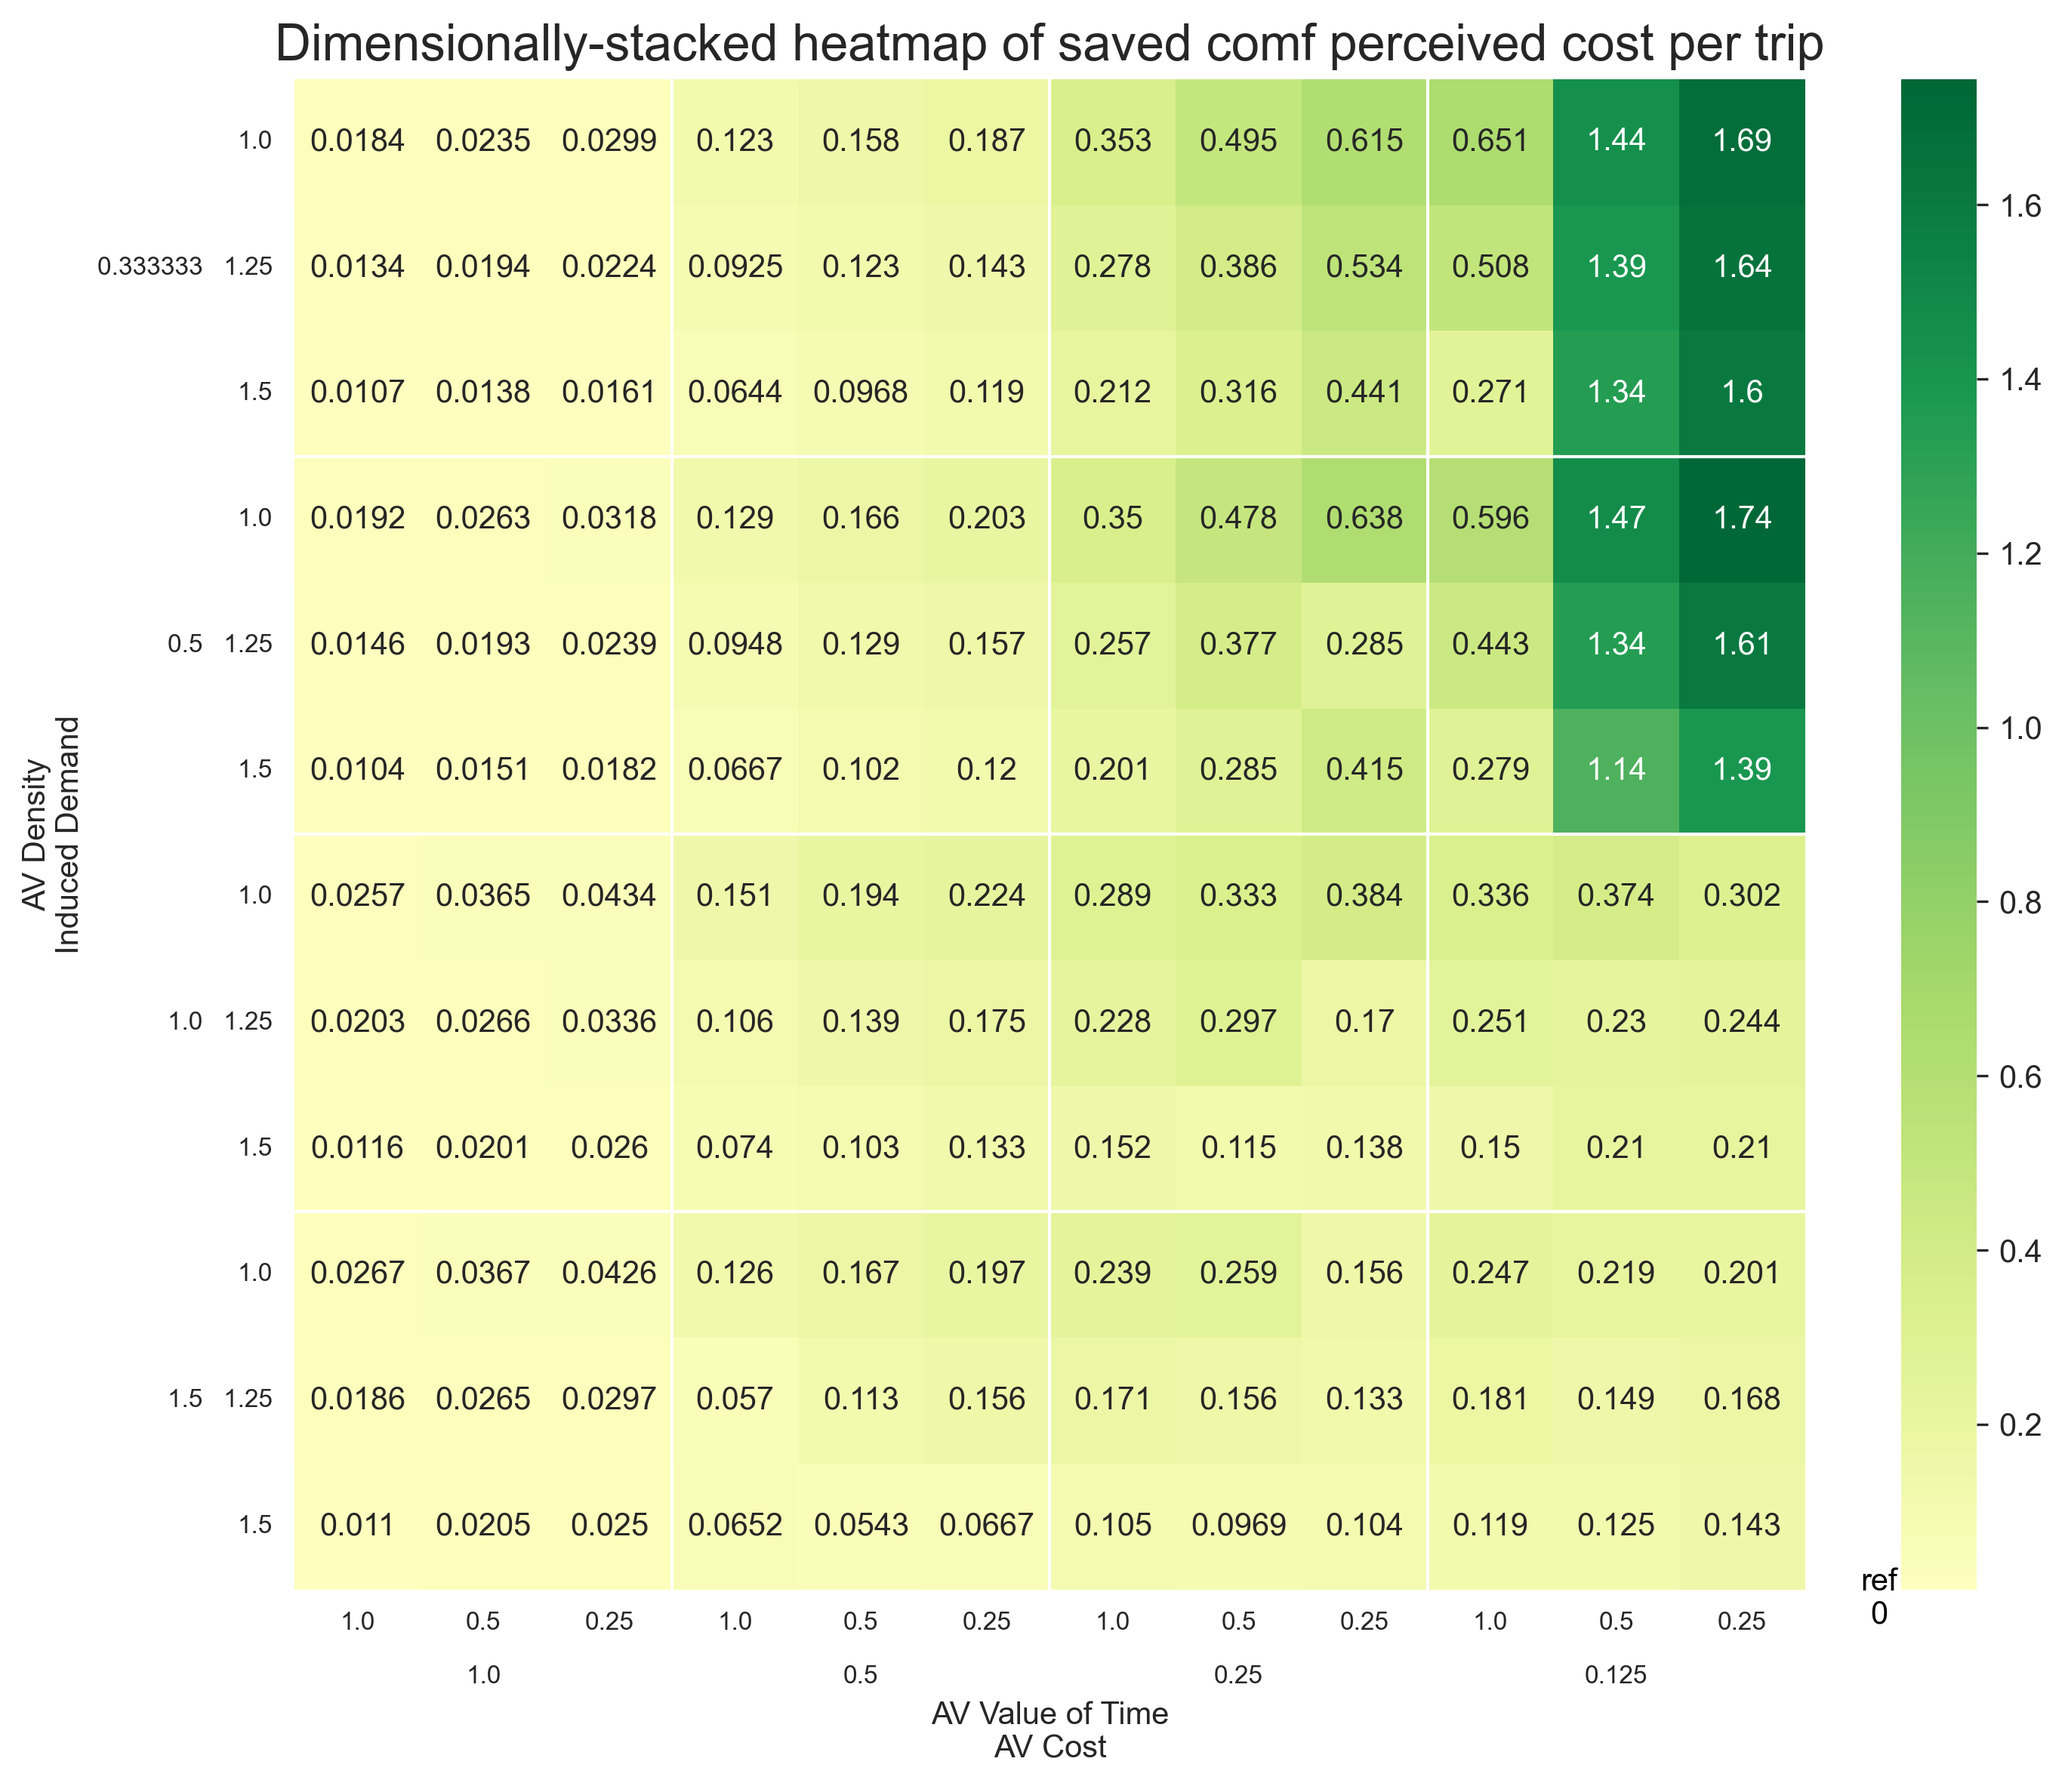
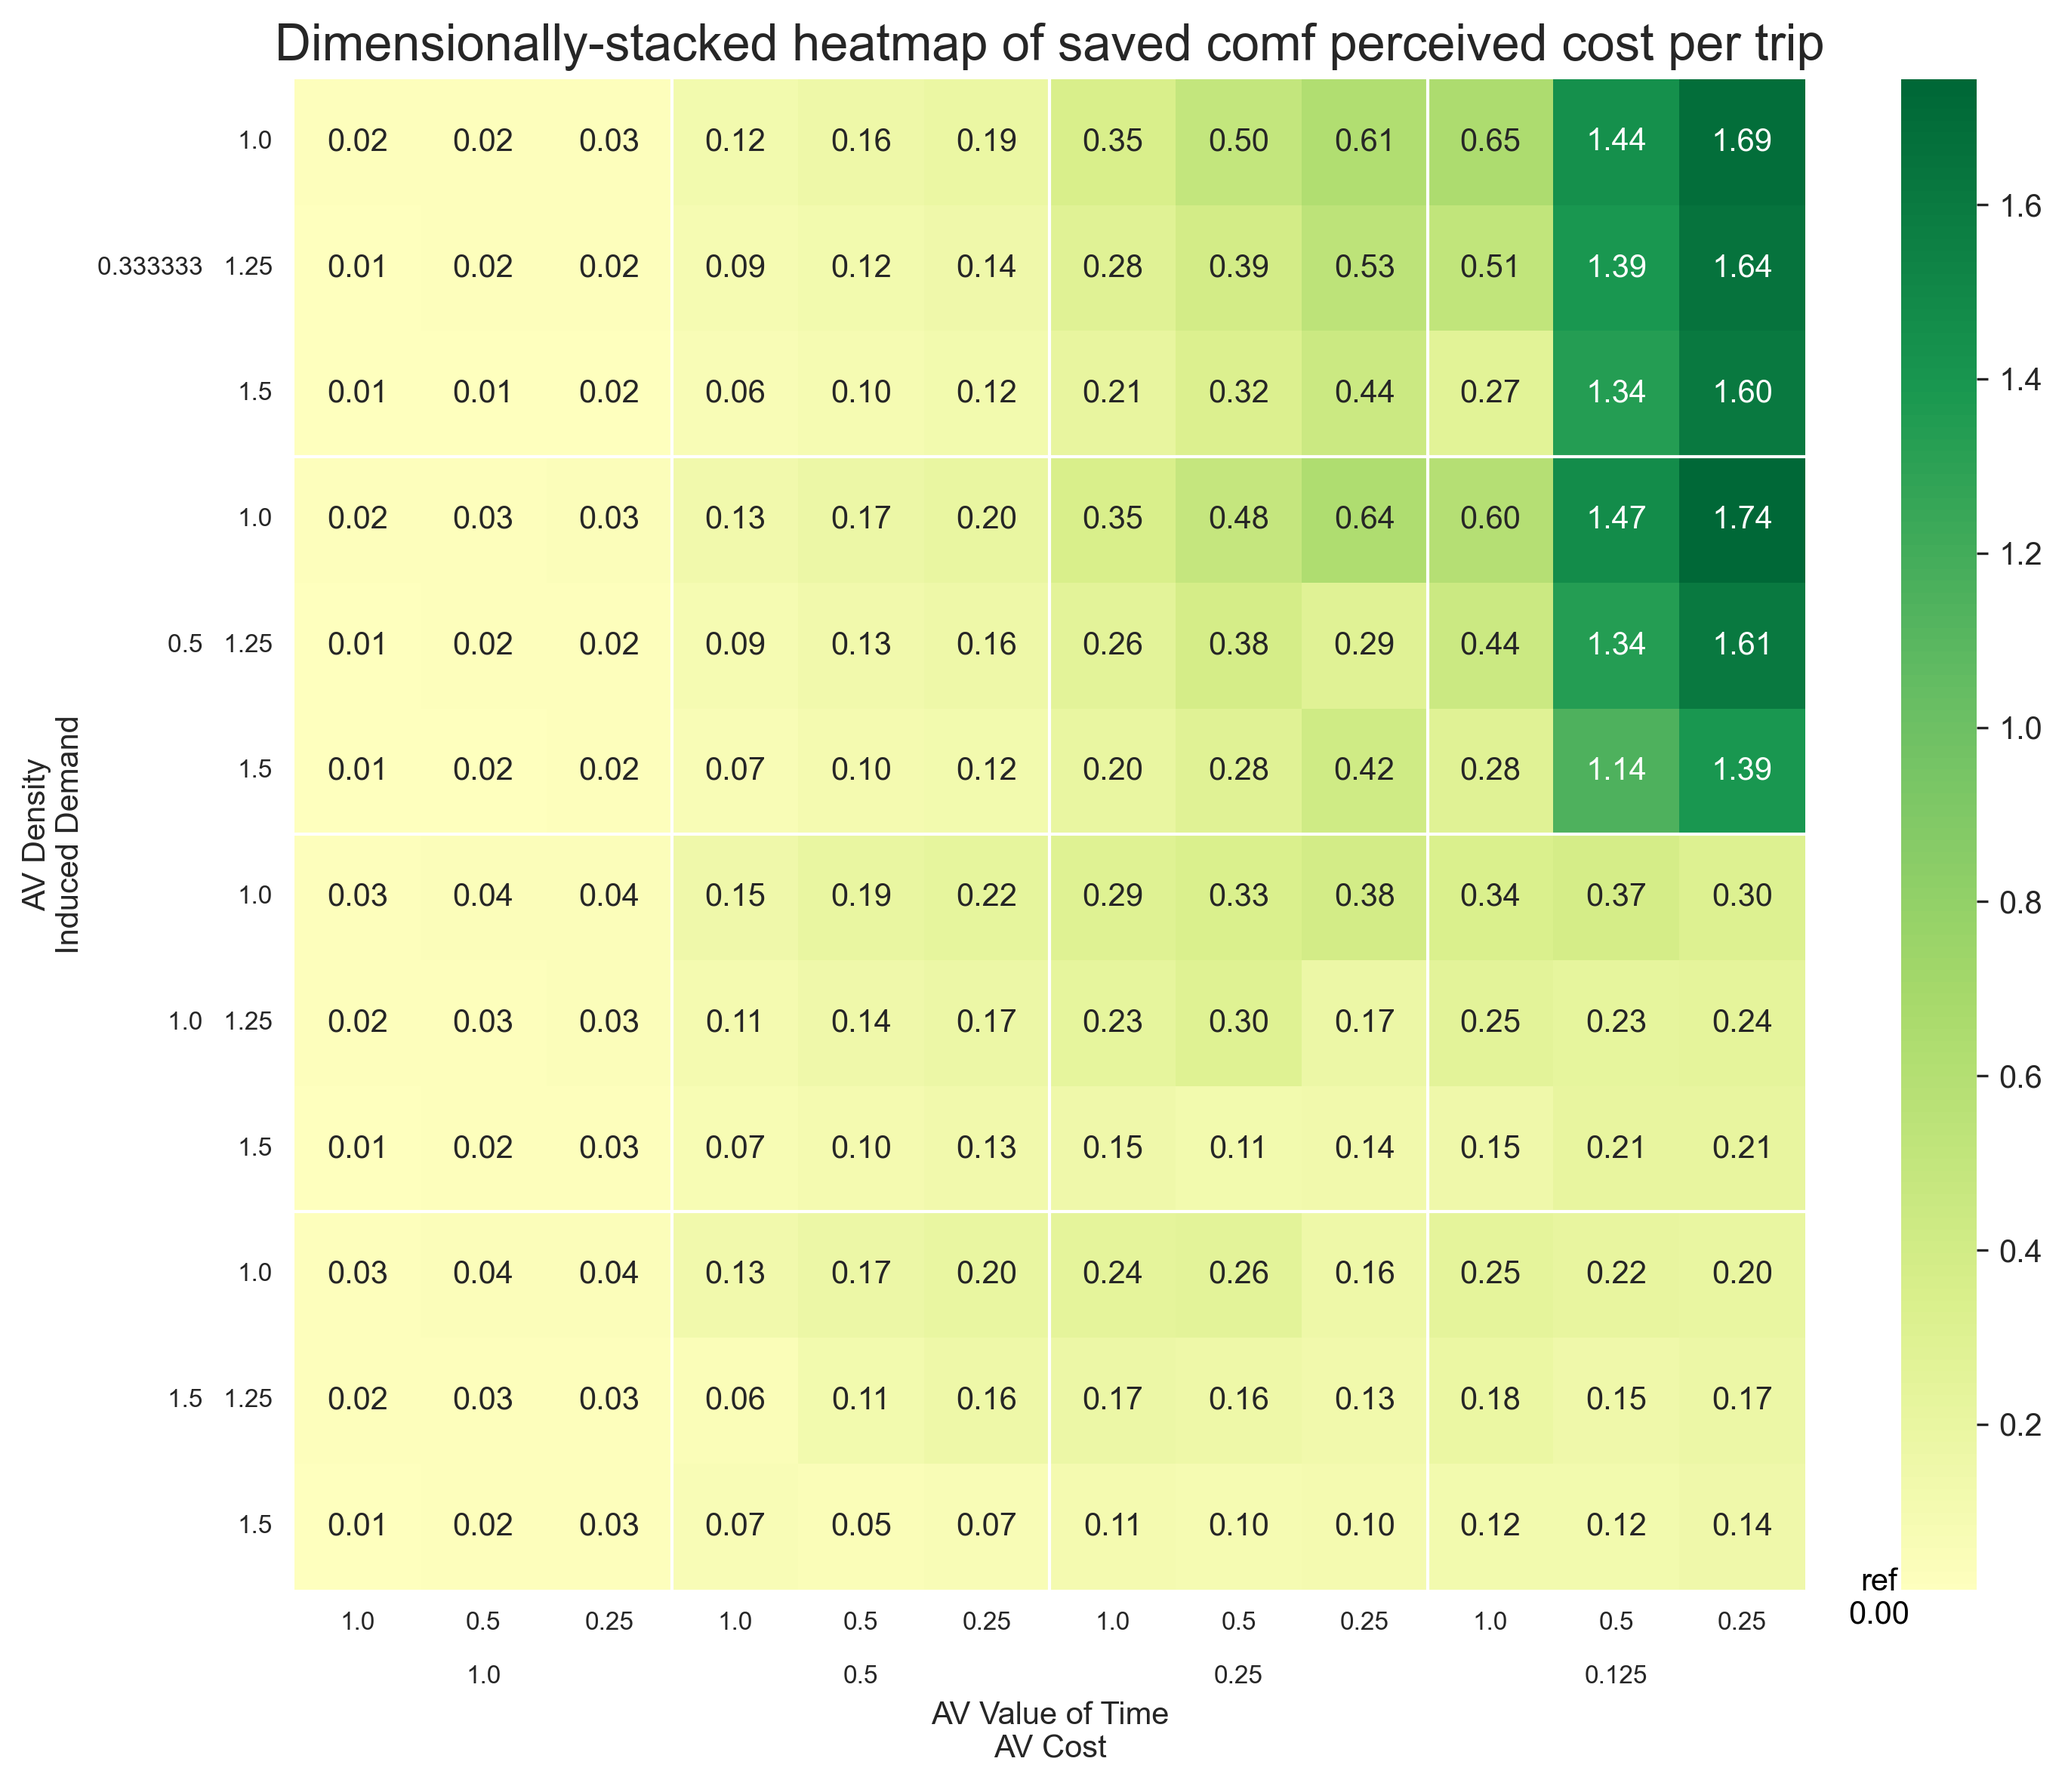
img/exp4: Use 2 decimal places for costs (€) plots
2 decimal places '.2f' for these plots: ['mean_comf_perceived_cost', 'mean_perceived_cost', 'comf_perceived_cost_per_trip', 'saved_comf_perceived_cost_per_trip']

diff --git a/paper/paper.md b/paper/paper.md
@@ -182,12 +182,10 @@ At least include:
 ![journeys_data_default.svg](img%2Fdefault%2Fjourneys_data_default.svg)
 
 ### 3.5.3 Network metrics
-![uxsim_data_default_default.png](img%2Fdefault%2Fuxsim_data_default_default.png)
 ![uxsim_heatmaps_default.png](img%2Fdefault%2Fuxsim_heatmaps_default.png)
 ![uxsim_heatmaps_default_clean.png](img%2Fdefault%2Fuxsim_heatmaps_default_clean.png)
 
 ### 3.5.4 Parking
-![parked_data_default.png](img%2Fdefault%2Fparked_data_default.png)
 ![parked_heatmaps_default.png](img%2Fdefault%2Fparked_heatmaps_default.png)
 
 # 4. Experimental design
@@ -195,6 +193,8 @@ Two main experiments were conducted to explore the potential impacts of autonomo
 
 ![Conceptual-model-v2.svg](img%2FConceptual-model-v2.svg)
 _Fig 4.1: Conceptual model including scenario uncertainties and policy levers_
+
+TODO: Describe conceptual model
 
 ## 4.1 Scenario analysis
 To answer subquestions B and C, a wide variety of uncertainties were explored. The scenario analysis employed a full-factorial design exploring four key uncertainties:
@@ -276,7 +276,21 @@ _Answer on subquestion C_
 
 Network speeds (3x1)
 
-Travel time, distance, perceived costs (3x1)
+| ![heatmap_mean_car_speed.png](..%2Fimg%2Fexp4%2Fheatmap_mean_car_speed.png) | ![heatmap_mean_av_speed.png](..%2Fimg%2Fexp4%2Fheatmap_mean_av_speed.png) | ![heatmap_mean_network_speed.png](..%2Fimg%2Fexp4%2Fheatmap_mean_network_speed.png) |
+|-----|-----|-----|
+
+Travel time and delay
+
+| ![traffic_heatmap_average_travel_time.png](..%2Fimg%2Fexp4%2Ftraffic_heatmap_average_travel_time.png) | ![traffic_heatmap_average_delay_weighted.png](..%2Fimg%2Fexp4%2Ftraffic_heatmap_average_delay_weighted.png) |
+|-----|-----|
+
+
+
+| ![heatmap_mean_perceived_cost.png](..%2Fimg%2Fexp4%2Fheatmap_mean_perceived_cost.png) | ![heatmap_saved_comf_perceived_cost_per_trip.png](..%2Fimg%2Fexp4%2Fheatmap_saved_comf_perceived_cost_per_trip.png) |
+|-----|-----|
+
+|  |  |
+|-----|-----|
 
 Something with parking?
 
@@ -284,10 +298,17 @@ Something with parking?
 _Answer on subquestion D_
 
 Mode shares (2x2)
+|  |  |
+|-----|-----|
+|  |  |
 
 Network speeds (3x1)
+|  |  |  |
+|-----|-----|-----|
 
-Travel time, distance, perceived costs (3x1)
+Travel time, network distance, perceived costs (3x1)
+|  |  |  |
+|-----|-----|-----|
 
 Something with parking?
 
@@ -1223,6 +1244,19 @@ The collected data allowed for the evaluation of various metrics, including:
 
 These metrics were used to assess the impacts of different AV adoption scenarios and the effectiveness of various policy interventions.
 
+## Appendix E: Additional results
+This section contains some additional results that were not included in the main report, but might be interesting for specific audiences.
+
+### 1. Default behavior
+![uxsim_data_default_default.png](img%2Fdefault%2Fuxsim_data_default_default.png)
+![parked_data_default.png](img%2Fdefault%2Fparked_data_default.png)
+
+### 2. Scenario analysis
+#### 2.1. Full mode and mode distance shares
+
+| ![heatmap_mode_share_car.png](..%2Fimg%2Fexp4%2Fheatmap_mode_share_car.png) | ![heatmap_mode_share_bike.png](..%2Fimg%2Fexp4%2Fheatmap_mode_share_bike.png) | ![heatmap_mode_share_transit.png](..%2Fimg%2Fexp4%2Fheatmap_mode_share_transit.png) | ![heatmap_mode_share_av.png](..%2Fimg%2Fexp4%2Fheatmap_mode_share_av.png) |
+|-----|-----|-----|-----|
+| ![heatmap_mode_distance_share_car.png](..%2Fimg%2Fexp4%2Fheatmap_mode_distance_share_car.png) | ![heatmap_mode_distance_share_bike.png](..%2Fexp4%2Fimg%2Fheatmap_mode_distance_share_bike.png) | ![heatmap_mode_distance_share_transit.png](..%2Fimg%2Fexp4%2Fheatmap_mode_distance_share_transit.png) | ![heatmap_mode_distance_share_av.png](..%2Fimg%2Fexp4%2Fheatmap_mode_distance_share_av.png) |
 
 # References
 
